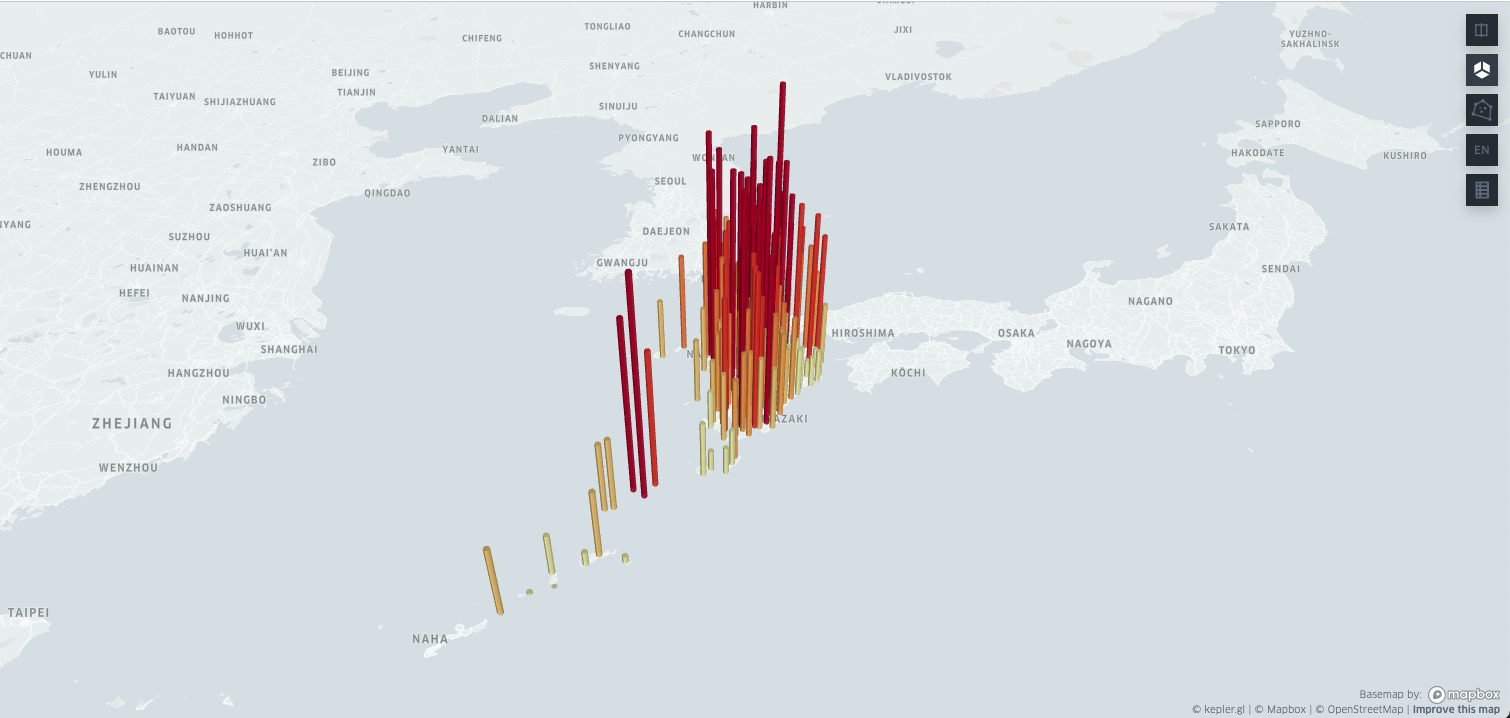
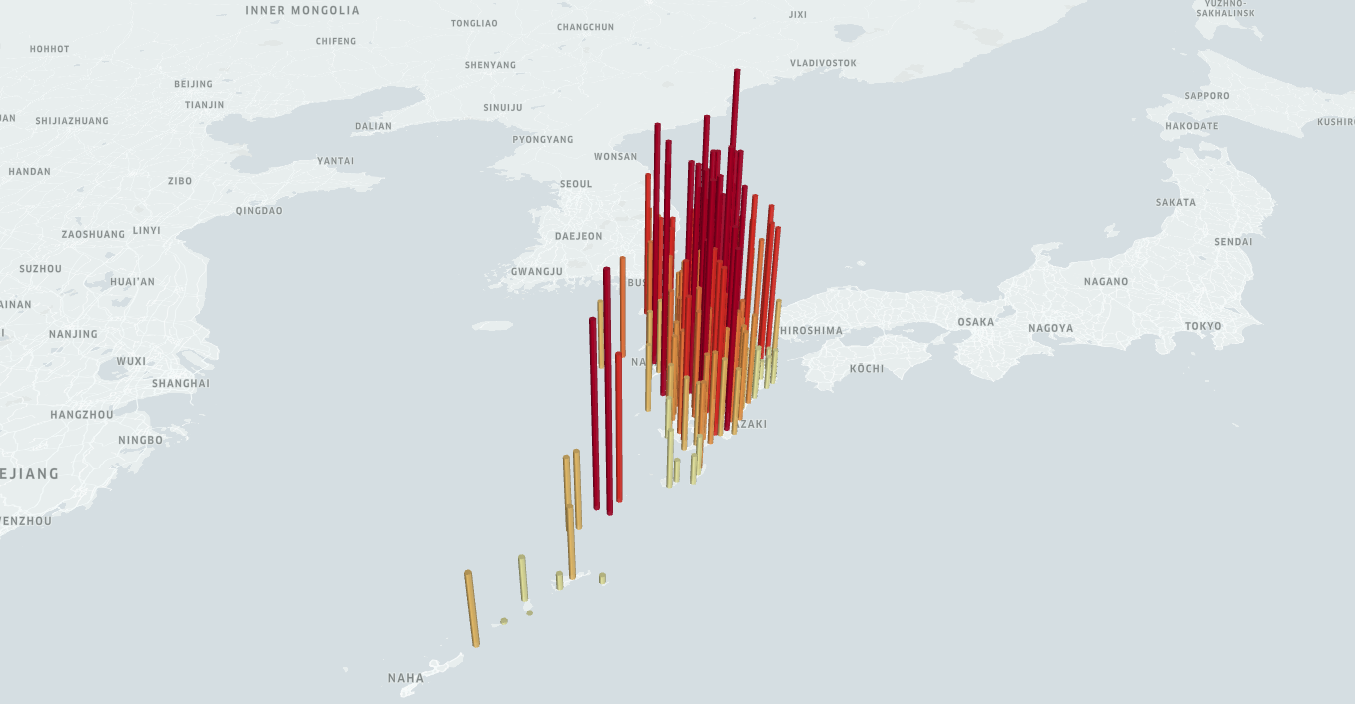
up

diff --git a/simulation/r27mkyusyu.html b/simulation/r27mkyusyu.html
@@ -1,5 +1,4 @@
-
-    <!DOCTYPE html>
+<!DOCTYPE html>
 <html lang="ja">
 	<head prefix="og: http://ogp.me/ns# fb: http://ogp.me/ns/fb# article: http://ogp.me/ns/article#">
 	<meta charset="UTF-8" name="viewport" content="width=device-width, initial-scale=1, maximum-scale=1, user-scalable=no" >
@@ -193,8 +192,8 @@
            * to add new data and customize behavior
            */
           (function customize(keplerGl, store) {
-            const datasets = [{"version":"v1","data":{"id":"2xxmu0qvn","label":"令和2年九州豪雨.csv","color":[143,47,191],"allData":[[33,50.7,131,2.1,"空港北町",33.845,131.035,123.5],[33,46.7,130,51.9,"東谷",33.77833333,130.865,122],[33,42.8,130,58.5,"行橋",33.71333333,130.975,158],[33,51.1,130,44.6,"八幡",33.85166667,130.7433333,137.5],[33,48.5,130,32.3,"宗像",33.80833333,130.5383333,164.5],[33,39.1,130,41.6,"飯塚",33.65166667,130.6933333,142],[33,35,130,27.1,"博多",33.58333333,130.4516667,175],[33,34.9,130,22.5,"福岡",33.58166667,130.375,167],[33,33.6,130,11.4,"前原",33.56,130.19,191.5],[33,29.3,130,21.2,"早良脇山",33.48833333,130.3533333,191],[33,29.8,130,29.4,"太宰府",33.49666667,130.49,148.5],[33,33.5,130,51.3,"添田",33.55833333,130.855,258.5],[33,29.3,130,55.4,"英彦山",33.48833333,130.9233333,285.5],[33,24.4,130,41.7,"朝倉",33.40666667,130.695,253.5],[33,17.5,130,37.5,"耳納山",33.29166667,130.625,278.5],[33,13.5,130,38.7,"黒木",33.225,130.645,287.5],[33,18.2,130,29.6,"久留米",33.30333333,130.4933333,271],[33,9.6,130,24.6,"柳川",33.16,130.41,292],[33,0.4,130,28.4,"大牟田",33.00666667,130.4733333,388.5],[33,23.1,130,31,"鳥栖",33.385,130.5166667,233.5],[33,15.9,130,18.3,"佐賀",33.265,130.305,209],[33,24.8,130,13.2,"北山",33.41333333,130.22,209],[33,27.5,129,57.3,"唐津",33.45833333,129.955,232],[33,13.2,130,6.7,"大町",33.22,130.1116667,169],[33,11,130,8.9,"白石",33.18333333,130.1483333,186.5],[33,16,129,52.7,"伊万里",33.26666667,129.8783333,208],[33,7,129,59.7,"嬉野",33.11666667,129.995,234.5],[33,8.9,130,18.1,"川副",33.14833333,130.3016667,262.5],[33,48,129,43.3,"芦辺",33.8,129.7216667,95.5],[33,44.9,129,47.1,"石田",33.74833333,129.785,177],[34,41.9,129,26.7,"鰐浦",34.69833333,129.445,169.5],[34,17.1,129,19.8,"美津島",34.285,129.33,198.5],[34,11.8,129,17.5,"厳原",34.19666667,129.2916667,253.5],[33,21.6,129,33,"平戸",33.36,129.55,184.5],[33,20.5,129,42.7,"松浦",33.34166667,129.7116667,236.5],[33,9.5,129,43.6,"佐世保",33.15833333,129.7266667,228.5],[32,41.6,128,49.6,"福江",32.69333333,128.8266667,146],[32,39.9,128,49.9,"上大津",32.665,128.8316667,129.5],[32,56.9,129,37.9,"大瀬戸",32.94833333,129.6316667,223.5],[32,58.9,129,7.1,"有川",32.98166667,129.1183333,193.5],[32,54.5,129,44.3,"長浦岳",32.90833333,129.7383333,376.5],[32,44,129,52,"長崎",32.73333333,129.8666667,153],[32,55,129,54.8,"大村",32.91666667,129.9133333,357],[32,34.7,129,44.4,"野母崎",32.57833333,129.74,147],[32,50.6,130,1.5,"諫早",32.84333333,130.025,213],[32,44.2,130,15.7,"雲仙岳",32.73666667,130.2616667,198],[32,45.6,130,21.7,"島原",32.76,130.3616667,168],[32,36.7,130,11.6,"口之津",32.61166667,130.1933333,107],[33,40.5,131,35.4,"国見",33.675,131.59,166],[33,35.2,131,14.7,"中津",33.58666667,131.245,233.5],[33,34.2,131,26,"豊後高田",33.57,131.4333333,208],[33,26.7,131,6.9,"耶馬渓",33.445,131.115,242.5],[33,19.3,130,55.7,"日田",33.32166667,130.9283333,240.5],[33,11.4,130,54.9,"椿ヶ鼻",33.19,130.915,437.5],[33,17.5,131,9.3,"玖珠",33.29166667,131.155,294],[33,25.2,131,19,"院内",33.42,131.3166667,203.5],[33,28.7,131,44.2,"武蔵",33.47833333,131.7366667,233.5],[33,25,131,35.8,"杵築",33.41666667,131.5966667,265.5],[33,15.2,131,20.8,"湯布院",33.25333333,131.3466667,283],[33,14.1,131,37.1,"大分",33.235,131.6183333,252.5],[33,14.9,131,51.9,"佐賀関",33.24833333,131.865,141.5],[33,7.9,131,47.8,"臼杵",33.13166667,131.7966667,76],[32,58.4,131,23.9,"竹田",32.97333333,131.3983333,105],[32,57,131,54.1,"佐伯",32.95,131.9016667,61.5],[32,47.7,131,55.4,"蒲江",32.795,131.9233333,95],[32,50.7,131,40.5,"宇目",32.845,131.675,72],[33,6.2,131,4,"南小国",33.10333333,131.0666667,344],[33,6.9,130,41.5,"鹿北",33.115,130.6916667,341.5],[32,56.7,130,46.9,"菊池",32.945,130.7816667,215],[32,54.9,130,30.7,"岱明",32.915,130.5116667,221.5],[32,56.8,131,2.4,"阿蘇乙姫",32.94666667,131.04,247],[32,49.3,131,7.5,"高森",32.82166667,131.125,185],[32,49.9,131,0.8,"南阿蘇",32.83166667,131.0133333,357.5],[32,50.2,130,51.3,"益城",32.83666667,130.855,164.5],[32,48.8,130,42.4,"熊本",32.81333333,130.7066667,167.5],[32,42,130,39.4,"宇土",32.7,130.6566667,158],[32,38.7,130,48.6,"甲佐",32.645,130.81,222],[32,36.7,130,28.7,"三角",32.61166667,130.4783333,132],[32,17.7,130,57,"多良木",32.295,130.95,328],[32,15.8,131,2.6,"湯前横谷",32.26333333,131.0433333,386.5],[32,13.5,130,54.3,"上",32.225,130.905,354],[32,13,130,45.3,"人吉",32.21666667,130.755,299],[32,18.1,130,44.8,"山江",32.30166667,130.7466667,379.5],[32,23.7,130,49.6,"五木",32.395,130.8266667,339],[32,28.4,130,36.4,"八代",32.47333333,130.6066667,159],[32,30.9,130,26.8,"松島",32.515,130.4466667,124],[32,28.1,130,10.8,"本渡",32.46833333,130.18,107.5],[32,21.8,130,30.5,"田浦",32.36333333,130.5083333,359],[32,14.7,130,38.7,"一勝地",32.245,130.645,357],[32,12.3,130,24.4,"水俣",32.205,130.4066667,367.5],[32,11.8,130,1.6,"牛深",32.19666667,130.0266667,363],[32,42.7,131,49.2,"古江",32.71166667,131.82,92],[32,42.7,131,17.4,"高千穂",32.71166667,131.29,152.5],[32,38.6,131,9.4,"鞍岡",32.64333333,131.1566667,142.5],[32,40.9,131,24.4,"日之影",32.68166667,131.4066667,104],[32,34.9,131,39.4,"延岡",32.58166667,131.6566667,113],[32,33.7,131,31.5,"北方",32.56166667,131.525,124.5],[32,28.5,131,6.2,"椎葉",32.475,131.1033333,233.5],[32,31,131,20.1,"諸塚",32.51666667,131.335,156.5],[32,24.5,131,36,"日向",32.40833333,131.6,118.5],[32,17,131,32.5,"都農",32.28333333,131.5416667,174.5],[32,23.1,131,19.9,"神門",32.385,131.3316667,189],[32,14.4,131,9.1,"西米良",32.24,131.1516667,293],[32,7.4,131,28.5,"高鍋",32.12333333,131.475,133.5],[32,3.8,131,24.8,"西都",32.06333333,131.4133333,153],[32,0.4,131,17.8,"国富",32.00666667,131.2966667,185.5],[32,2.8,130,48.6,"加久藤",32.04666667,130.81,209],[32,0,130,57.2,"小林",32,130.9533333,142],[31,56.7,130,50.4,"えびの",31.945,130.84,276],[31,57.4,131,9.4,"野尻",31.95666667,131.1566667,171],[31,43.8,131,4.9,"都城",31.73,131.0816667,229.5],[31,56.3,131,24.8,"宮崎",31.93833333,131.4133333,177.5],[31,52.6,131,26.9,"赤江",31.87666667,131.4483333,173.5],[31,50.6,131,18.5,"田野",31.84333333,131.3083333,204.5],[31,38.2,131,15,"深瀬",31.63666667,131.25,297],[31,34.7,131,24.4,"油津",31.57833333,131.4066667,141],[31,27.9,131,13.2,"串間",31.465,131.22,157],[32,1.6,130,12,"阿久根",32.02666667,130.2,211],[32,2.8,130,37.6,"大口",32.04666667,130.6266667,218.5],[31,58.8,130,22,"紫尾山",31.98,130.3666667,202],[31,55,130,27.3,"さつま柏原",31.91666667,130.455,187.5],[31,50.1,129,52,"中甑",31.835,129.8666667,143.5],[31,50,130,18.9,"川内",31.83333333,130.315,180],[31,48.2,130,43.1,"溝辺",31.80333333,130.7183333,198.5],[31,44.8,130,26.3,"八重山",31.74666667,130.4383333,267.5],[31,40.1,130,19.7,"東市来",31.66833333,130.3283333,168.5],[31,33.3,130,32.8,"鹿児島",31.555,130.5466667,140.5],[31,24.9,130,19.5,"加世田",31.415,130.325,144],[31,27.5,130,51.7,"吉ケ別府",31.45833333,130.8616667,310.5],[31,23.2,130,32.4,"喜入",31.38666667,130.54,194],[31,16.3,130,17.5,"枕崎",31.27166667,130.2916667,104.5],[31,15,130,38.2,"指宿",31.25,130.6366667,248],[31,16.6,131,3.3,"内之浦",31.27666667,131.055,177.5],[30,43.2,130,58.9,"種子島",30.72,130.9816667,169],[30,36.3,130,59.5,"中種子",30.605,130.9916667,101],[30,24.4,130,54.1,"上中",30.40666667,130.9016667,86.5],[30,14.1,130,33.3,"尾之間",30.235,130.555,128.5],[28,22.7,129,29.7,"名瀬",28.37833333,129.495,147.5],[30,23.1,130,39.5,"屋久島",30.385,130.6583333,76],[27,25.9,128,42.3,"沖永良部",27.43166667,128.705,47.5],[32,5.6,130,21.1,"出水",32.09333333,130.3516667,198.5],[31,39.7,130,50.6,"牧之原",31.66166667,130.8433333,212],[31,28.7,131,5.7,"志布志",31.47833333,131.095,278.5],[31,23.5,130,51.8,"鹿屋",31.39166667,130.8633333,385.5],[28,8.6,129,18.9,"古仁屋",28.14333333,129.315,66.5],[31,11.9,130,50.6,"田代",31.19833333,130.8433333,136],[27,40.6,128,58.4,"伊仙",27.67666667,128.9733333,44.5],[31,35.3,130,51.3,"輝北",31.58833333,130.855,180],[31,34.8,131,0.3,"大隅",31.58,131.005,278.5],[31,5.6,130,41.4,"佐多",31.09333333,130.69,150.5],[31,20.4,130,56.3,"肝付前田",31.34,130.9383333,169],[27,2.6,128,24.1,"与論島",27.04333333,128.4016667,148.5],[28,19.2,129,55.6,"喜界島",28.32,129.9266667,55],[29,50.4,129,52,"中之島",29.84,129.8666667,249.5],[27,50.1,128,52.8,"天城",27.835,128.88,107],[29,9.1,129,12.1,"宝島",29.15166667,129.2016667,150.5],[29,36.6,129,42.3,"諏訪之瀬島",29.61,129.705,365],[29,13.5,129,19.7,"小宝島",29.225,129.3283333,155.5],[29,41,129,31.7,"平島",29.68333333,129.5283333,301]],"fields":[{"name":"4","type":"integer","format":"","analyzerType":"INT"},{"name":"5","type":"real","format":"","analyzerType":"FLOAT"},{"name":"6","type":"integer","format":"","analyzerType":"INT"},{"name":"7","type":"real","format":"","analyzerType":"FLOAT"},{"name":"Place","type":"string","format":"","analyzerType":"STRING"},{"name":"Latitude","type":"real","format":"","analyzerType":"FLOAT"},{"name":"Longitude","type":"real","format":"","analyzerType":"FLOAT"},{"name":"Value","type":"real","format":"","analyzerType":"FLOAT"}]}}];
-            const config = {"version":"v1","config":{"visState":{"filters":[],"layers":[{"id":"8j4f2xa","type":"hexagon","config":{"dataId":"2xxmu0qvn","label":"Point","color":[255,203,153],"highlightColor":[252,242,26,255],"columns":{"lat":"Latitude","lng":"Longitude"},"isVisible":true,"visConfig":{"opacity":0.8,"worldUnitSize":5,"resolution":8,"colorRange":{"name":"ColorBrewer YlOrRd-6","type":"sequential","category":"ColorBrewer","colors":["#ffffb2","#fed976","#feb24c","#fd8d3c","#f03b20","#bd0026"]},"coverage":1,"sizeRange":[0,758.77],"percentile":[0,100],"elevationPercentile":[0,100],"elevationScale":100,"enableElevationZoomFactor":true,"colorAggregation":"average","sizeAggregation":"average","enable3d":true},"hidden":false,"textLabel":[{"field":null,"color":[255,255,255],"size":18,"offset":[0,0],"anchor":"start","alignment":"center"}]},"visualChannels":{"colorField":{"name":"Value","type":"real"},"colorScale":"quantile","sizeField":{"name":"Value","type":"real"},"sizeScale":"linear"}}],"interactionConfig":{"tooltip":{"fieldsToShow":{"2xxmu0qvn":[{"name":"4","format":null},{"name":"5","format":null},{"name":"6","format":null},{"name":"7","format":null},{"name":"Place","format":null}]},"compareMode":false,"compareType":"absolute","enabled":true},"brush":{"size":0.5,"enabled":false},"geocoder":{"enabled":false},"coordinate":{"enabled":false}},"layerBlending":"normal","splitMaps":[],"animationConfig":{"currentTime":null,"speed":1}},"mapState":{"bearing":-16.382409177820335,"dragRotate":true,"latitude":32.859075502123886,"longitude":130.0621046406069,"pitch":49.558393647124475,"zoom":5.158136775422472,"isSplit":false},"mapStyle":{"styleType":"light","topLayerGroups":{},"visibleLayerGroups":{"label":true,"road":true,"border":false,"building":true,"water":true,"land":true,"3d building":false},"threeDBuildingColor":[218.82023004728686,223.47597962276103,223.47597962276103],"mapStyles":{}}}};
+            const datasets = [{"version":"v1","data":{"id":"s1mmxdc2h","label":"令和2年九州豪雨.csv","color":[143,47,191],"allData":[[33,50.7,131,2.1,"空港北町",33.845,131.035,123.5],[33,46.7,130,51.9,"東谷",33.77833333,130.865,122],[33,42.8,130,58.5,"行橋",33.71333333,130.975,158],[33,51.1,130,44.6,"八幡",33.85166667,130.7433333,137.5],[33,48.5,130,32.3,"宗像",33.80833333,130.5383333,164.5],[33,39.1,130,41.6,"飯塚",33.65166667,130.6933333,142],[33,35,130,27.1,"博多",33.58333333,130.4516667,175],[33,34.9,130,22.5,"福岡",33.58166667,130.375,167],[33,33.6,130,11.4,"前原",33.56,130.19,191.5],[33,29.3,130,21.2,"早良脇山",33.48833333,130.3533333,191],[33,29.8,130,29.4,"太宰府",33.49666667,130.49,148.5],[33,33.5,130,51.3,"添田",33.55833333,130.855,258.5],[33,29.3,130,55.4,"英彦山",33.48833333,130.9233333,285.5],[33,24.4,130,41.7,"朝倉",33.40666667,130.695,253.5],[33,17.5,130,37.5,"耳納山",33.29166667,130.625,278.5],[33,13.5,130,38.7,"黒木",33.225,130.645,287.5],[33,18.2,130,29.6,"久留米",33.30333333,130.4933333,271],[33,9.6,130,24.6,"柳川",33.16,130.41,292],[33,0.4,130,28.4,"大牟田",33.00666667,130.4733333,388.5],[33,23.1,130,31,"鳥栖",33.385,130.5166667,233.5],[33,15.9,130,18.3,"佐賀",33.265,130.305,209],[33,24.8,130,13.2,"北山",33.41333333,130.22,209],[33,27.5,129,57.3,"唐津",33.45833333,129.955,232],[33,13.2,130,6.7,"大町",33.22,130.1116667,169],[33,11,130,8.9,"白石",33.18333333,130.1483333,186.5],[33,16,129,52.7,"伊万里",33.26666667,129.8783333,208],[33,7,129,59.7,"嬉野",33.11666667,129.995,234.5],[33,8.9,130,18.1,"川副",33.14833333,130.3016667,262.5],[33,48,129,43.3,"芦辺",33.8,129.7216667,95.5],[33,44.9,129,47.1,"石田",33.74833333,129.785,177],[34,41.9,129,26.7,"鰐浦",34.69833333,129.445,169.5],[34,17.1,129,19.8,"美津島",34.285,129.33,198.5],[34,11.8,129,17.5,"厳原",34.19666667,129.2916667,253.5],[33,21.6,129,33,"平戸",33.36,129.55,184.5],[33,20.5,129,42.7,"松浦",33.34166667,129.7116667,236.5],[33,9.5,129,43.6,"佐世保",33.15833333,129.7266667,228.5],[32,41.6,128,49.6,"福江",32.69333333,128.8266667,146],[32,39.9,128,49.9,"上大津",32.665,128.8316667,129.5],[32,56.9,129,37.9,"大瀬戸",32.94833333,129.6316667,223.5],[32,58.9,129,7.1,"有川",32.98166667,129.1183333,193.5],[32,54.5,129,44.3,"長浦岳",32.90833333,129.7383333,376.5],[32,44,129,52,"長崎",32.73333333,129.8666667,153],[32,55,129,54.8,"大村",32.91666667,129.9133333,357],[32,34.7,129,44.4,"野母崎",32.57833333,129.74,147],[32,50.6,130,1.5,"諫早",32.84333333,130.025,213],[32,44.2,130,15.7,"雲仙岳",32.73666667,130.2616667,198],[32,45.6,130,21.7,"島原",32.76,130.3616667,168],[32,36.7,130,11.6,"口之津",32.61166667,130.1933333,107],[33,40.5,131,35.4,"国見",33.675,131.59,166],[33,35.2,131,14.7,"中津",33.58666667,131.245,233.5],[33,34.2,131,26,"豊後高田",33.57,131.4333333,208],[33,26.7,131,6.9,"耶馬渓",33.445,131.115,242.5],[33,19.3,130,55.7,"日田",33.32166667,130.9283333,240.5],[33,11.4,130,54.9,"椿ヶ鼻",33.19,130.915,437.5],[33,17.5,131,9.3,"玖珠",33.29166667,131.155,294],[33,25.2,131,19,"院内",33.42,131.3166667,203.5],[33,28.7,131,44.2,"武蔵",33.47833333,131.7366667,233.5],[33,25,131,35.8,"杵築",33.41666667,131.5966667,265.5],[33,15.2,131,20.8,"湯布院",33.25333333,131.3466667,283],[33,14.1,131,37.1,"大分",33.235,131.6183333,252.5],[33,14.9,131,51.9,"佐賀関",33.24833333,131.865,141.5],[33,7.9,131,47.8,"臼杵",33.13166667,131.7966667,76],[32,58.4,131,23.9,"竹田",32.97333333,131.3983333,105],[32,57,131,54.1,"佐伯",32.95,131.9016667,61.5],[32,47.7,131,55.4,"蒲江",32.795,131.9233333,95],[32,50.7,131,40.5,"宇目",32.845,131.675,72],[33,6.2,131,4,"南小国",33.10333333,131.0666667,344],[33,6.9,130,41.5,"鹿北",33.115,130.6916667,341.5],[32,56.7,130,46.9,"菊池",32.945,130.7816667,215],[32,54.9,130,30.7,"岱明",32.915,130.5116667,221.5],[32,56.8,131,2.4,"阿蘇乙姫",32.94666667,131.04,247],[32,49.3,131,7.5,"高森",32.82166667,131.125,185],[32,49.9,131,0.8,"南阿蘇",32.83166667,131.0133333,357.5],[32,50.2,130,51.3,"益城",32.83666667,130.855,164.5],[32,48.8,130,42.4,"熊本",32.81333333,130.7066667,167.5],[32,42,130,39.4,"宇土",32.7,130.6566667,158],[32,38.7,130,48.6,"甲佐",32.645,130.81,222],[32,36.7,130,28.7,"三角",32.61166667,130.4783333,132],[32,17.7,130,57,"多良木",32.295,130.95,328],[32,15.8,131,2.6,"湯前横谷",32.26333333,131.0433333,386.5],[32,13.5,130,54.3,"上",32.225,130.905,354],[32,13,130,45.3,"人吉",32.21666667,130.755,299],[32,18.1,130,44.8,"山江",32.30166667,130.7466667,379.5],[32,23.7,130,49.6,"五木",32.395,130.8266667,339],[32,28.4,130,36.4,"八代",32.47333333,130.6066667,159],[32,30.9,130,26.8,"松島",32.515,130.4466667,124],[32,28.1,130,10.8,"本渡",32.46833333,130.18,107.5],[32,21.8,130,30.5,"田浦",32.36333333,130.5083333,359],[32,14.7,130,38.7,"一勝地",32.245,130.645,357],[32,12.3,130,24.4,"水俣",32.205,130.4066667,367.5],[32,11.8,130,1.6,"牛深",32.19666667,130.0266667,363],[32,42.7,131,49.2,"古江",32.71166667,131.82,92],[32,42.7,131,17.4,"高千穂",32.71166667,131.29,152.5],[32,38.6,131,9.4,"鞍岡",32.64333333,131.1566667,142.5],[32,40.9,131,24.4,"日之影",32.68166667,131.4066667,104],[32,34.9,131,39.4,"延岡",32.58166667,131.6566667,113],[32,33.7,131,31.5,"北方",32.56166667,131.525,124.5],[32,28.5,131,6.2,"椎葉",32.475,131.1033333,233.5],[32,31,131,20.1,"諸塚",32.51666667,131.335,156.5],[32,24.5,131,36,"日向",32.40833333,131.6,118.5],[32,17,131,32.5,"都農",32.28333333,131.5416667,174.5],[32,23.1,131,19.9,"神門",32.385,131.3316667,189],[32,14.4,131,9.1,"西米良",32.24,131.1516667,293],[32,7.4,131,28.5,"高鍋",32.12333333,131.475,133.5],[32,3.8,131,24.8,"西都",32.06333333,131.4133333,153],[32,0.4,131,17.8,"国富",32.00666667,131.2966667,185.5],[32,2.8,130,48.6,"加久藤",32.04666667,130.81,209],[32,0,130,57.2,"小林",32,130.9533333,142],[31,56.7,130,50.4,"えびの",31.945,130.84,276],[31,57.4,131,9.4,"野尻",31.95666667,131.1566667,171],[31,43.8,131,4.9,"都城",31.73,131.0816667,229.5],[31,56.3,131,24.8,"宮崎",31.93833333,131.4133333,177.5],[31,52.6,131,26.9,"赤江",31.87666667,131.4483333,173.5],[31,50.6,131,18.5,"田野",31.84333333,131.3083333,204.5],[31,38.2,131,15,"深瀬",31.63666667,131.25,297],[31,34.7,131,24.4,"油津",31.57833333,131.4066667,141],[31,27.9,131,13.2,"串間",31.465,131.22,157],[32,1.6,130,12,"阿久根",32.02666667,130.2,211],[32,2.8,130,37.6,"大口",32.04666667,130.6266667,218.5],[31,58.8,130,22,"紫尾山",31.98,130.3666667,202],[31,55,130,27.3,"さつま柏原",31.91666667,130.455,187.5],[31,50.1,129,52,"中甑",31.835,129.8666667,143.5],[31,50,130,18.9,"川内",31.83333333,130.315,180],[31,48.2,130,43.1,"溝辺",31.80333333,130.7183333,198.5],[31,44.8,130,26.3,"八重山",31.74666667,130.4383333,267.5],[31,40.1,130,19.7,"東市来",31.66833333,130.3283333,168.5],[31,33.3,130,32.8,"鹿児島",31.555,130.5466667,140.5],[31,24.9,130,19.5,"加世田",31.415,130.325,144],[31,27.5,130,51.7,"吉ケ別府",31.45833333,130.8616667,310.5],[31,23.2,130,32.4,"喜入",31.38666667,130.54,194],[31,16.3,130,17.5,"枕崎",31.27166667,130.2916667,104.5],[31,15,130,38.2,"指宿",31.25,130.6366667,248],[31,16.6,131,3.3,"内之浦",31.27666667,131.055,177.5],[30,43.2,130,58.9,"種子島",30.72,130.9816667,169],[30,36.3,130,59.5,"中種子",30.605,130.9916667,101],[30,24.4,130,54.1,"上中",30.40666667,130.9016667,86.5],[30,14.1,130,33.3,"尾之間",30.235,130.555,128.5],[28,22.7,129,29.7,"名瀬",28.37833333,129.495,147.5],[30,23.1,130,39.5,"屋久島",30.385,130.6583333,76],[27,25.9,128,42.3,"沖永良部",27.43166667,128.705,47.5],[32,5.6,130,21.1,"出水",32.09333333,130.3516667,198.5],[31,39.7,130,50.6,"牧之原",31.66166667,130.8433333,212],[31,28.7,131,5.7,"志布志",31.47833333,131.095,278.5],[31,23.5,130,51.8,"鹿屋",31.39166667,130.8633333,385.5],[28,8.6,129,18.9,"古仁屋",28.14333333,129.315,66.5],[31,11.9,130,50.6,"田代",31.19833333,130.8433333,136],[27,40.6,128,58.4,"伊仙",27.67666667,128.9733333,44.5],[31,35.3,130,51.3,"輝北",31.58833333,130.855,180],[31,34.8,131,0.3,"大隅",31.58,131.005,278.5],[31,5.6,130,41.4,"佐多",31.09333333,130.69,150.5],[31,20.4,130,56.3,"肝付前田",31.34,130.9383333,169],[27,2.6,128,24.1,"与論島",27.04333333,128.4016667,148.5],[28,19.2,129,55.6,"喜界島",28.32,129.9266667,55],[29,50.4,129,52,"中之島",29.84,129.8666667,249.5],[27,50.1,128,52.8,"天城",27.835,128.88,107],[29,9.1,129,12.1,"宝島",29.15166667,129.2016667,150.5],[29,36.6,129,42.3,"諏訪之瀬島",29.61,129.705,365],[29,13.5,129,19.7,"小宝島",29.225,129.3283333,155.5],[29,41,129,31.7,"平島",29.68333333,129.5283333,301]],"fields":[{"name":"4","type":"integer","format":"","analyzerType":"INT"},{"name":"5","type":"real","format":"","analyzerType":"FLOAT"},{"name":"6","type":"integer","format":"","analyzerType":"INT"},{"name":"7","type":"real","format":"","analyzerType":"FLOAT"},{"name":"Place","type":"string","format":"","analyzerType":"STRING"},{"name":"Latitude","type":"real","format":"","analyzerType":"FLOAT"},{"name":"Longitude","type":"real","format":"","analyzerType":"FLOAT"},{"name":"Value","type":"real","format":"","analyzerType":"FLOAT"}]}}];
+            const config = {"version":"v1","config":{"visState":{"filters":[],"layers":[{"id":"7hc9c2h","type":"hexagon","config":{"dataId":"s1mmxdc2h","label":"観測地点","color":[255,203,153],"highlightColor":[252,242,26,255],"columns":{"lat":"Latitude","lng":"Longitude"},"isVisible":true,"visConfig":{"opacity":0.8,"worldUnitSize":5,"resolution":8,"colorRange":{"name":"ColorBrewer YlOrRd-6","type":"sequential","category":"ColorBrewer","colors":["#ffffb2","#fed976","#feb24c","#fd8d3c","#f03b20","#bd0026"]},"coverage":1,"sizeRange":[0,800],"percentile":[0,100],"elevationPercentile":[0,100],"elevationScale":100,"enableElevationZoomFactor":true,"colorAggregation":"maximum","sizeAggregation":"maximum","enable3d":true},"hidden":false,"textLabel":[{"field":null,"color":[255,255,255],"size":18,"offset":[0,0],"anchor":"start","alignment":"center"}]},"visualChannels":{"colorField":{"name":"Value","type":"real"},"colorScale":"quantile","sizeField":{"name":"Value","type":"real"},"sizeScale":"linear"}}],"interactionConfig":{"tooltip":{"fieldsToShow":{"s1mmxdc2h":[{"name":"Place","format":null}]},"compareMode":false,"compareType":"relative","enabled":false},"brush":{"size":0,"enabled":false},"geocoder":{"enabled":false},"coordinate":{"enabled":false}},"layerBlending":"normal","splitMaps":[],"animationConfig":{"currentTime":null,"speed":1}},"mapState":{"bearing":-11.062499999999996,"dragRotate":true,"latitude":32.859075502123886,"longitude":129.29655597842543,"pitch":51.94639684202138,"zoom":5.273896173094136,"isSplit":false},"mapStyle":{"styleType":"light","topLayerGroups":{"3d building":true},"visibleLayerGroups":{"label":true,"road":true,"border":false,"building":true,"water":true,"land":true,"3d building":false},"threeDBuildingColor":[44,81,190],"mapStyles":{}}}};
 
             const loadedData = keplerGl.KeplerGlSchema.load(
               datasets,
